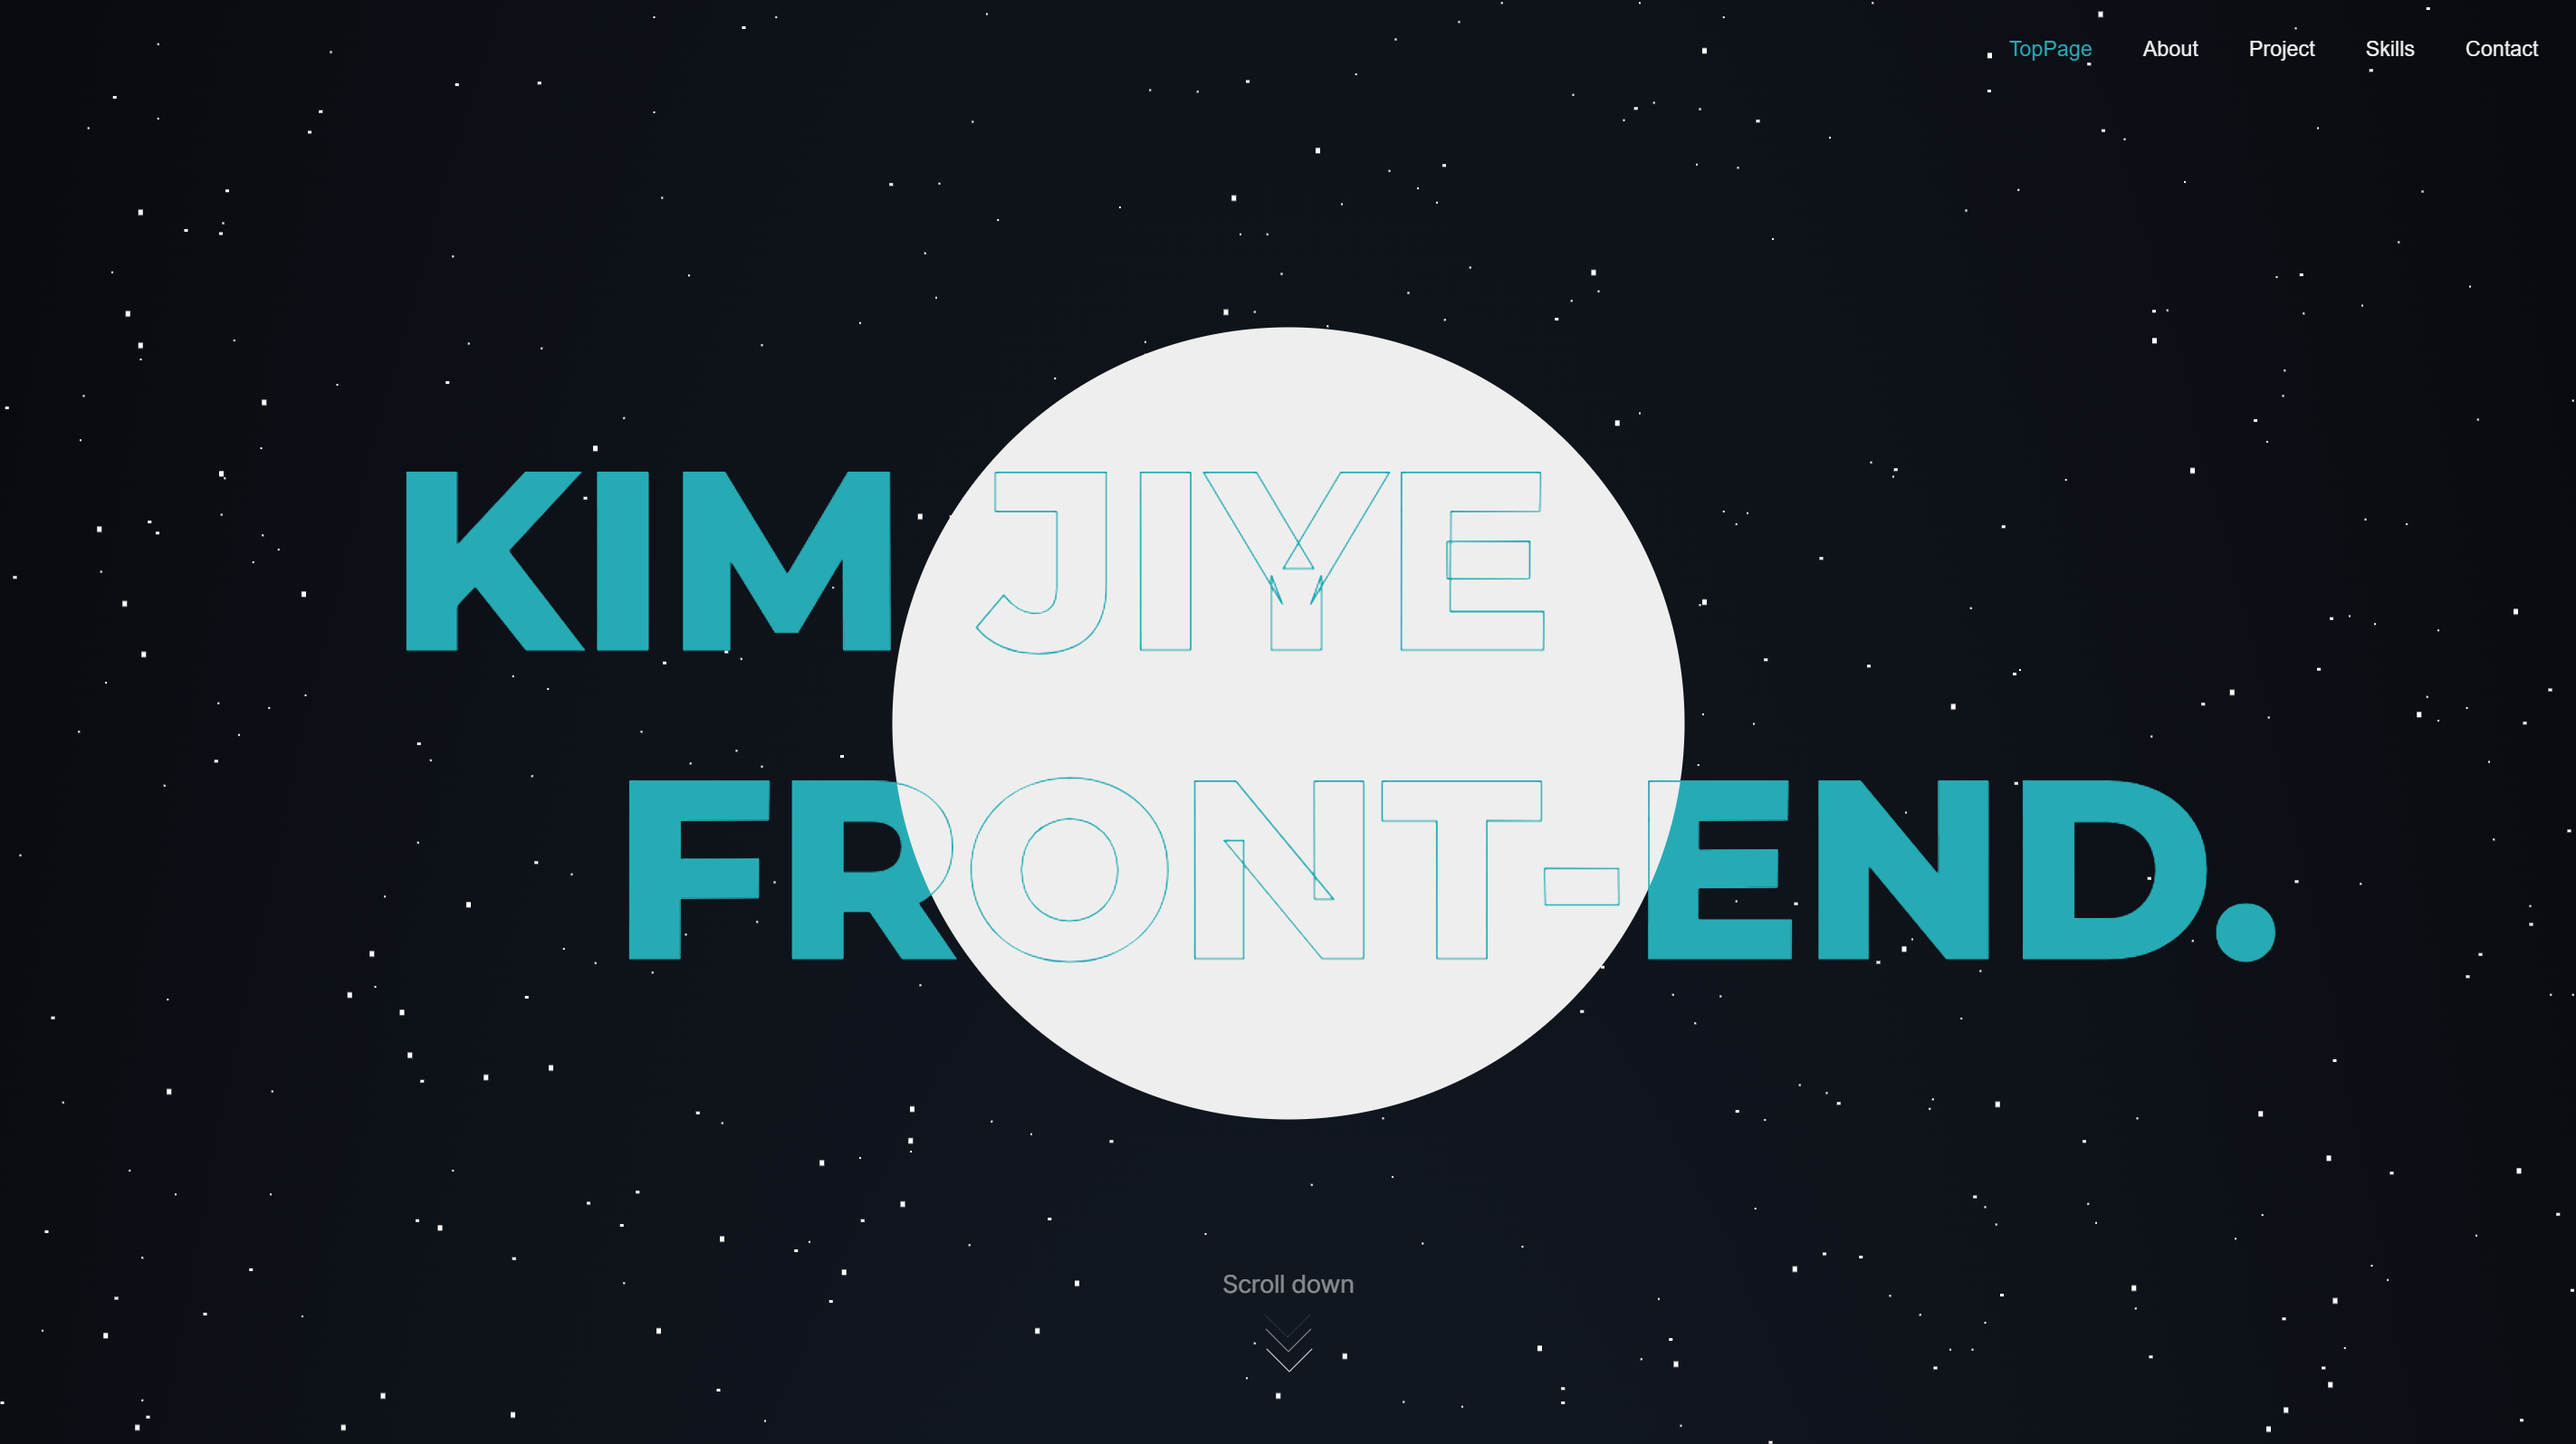
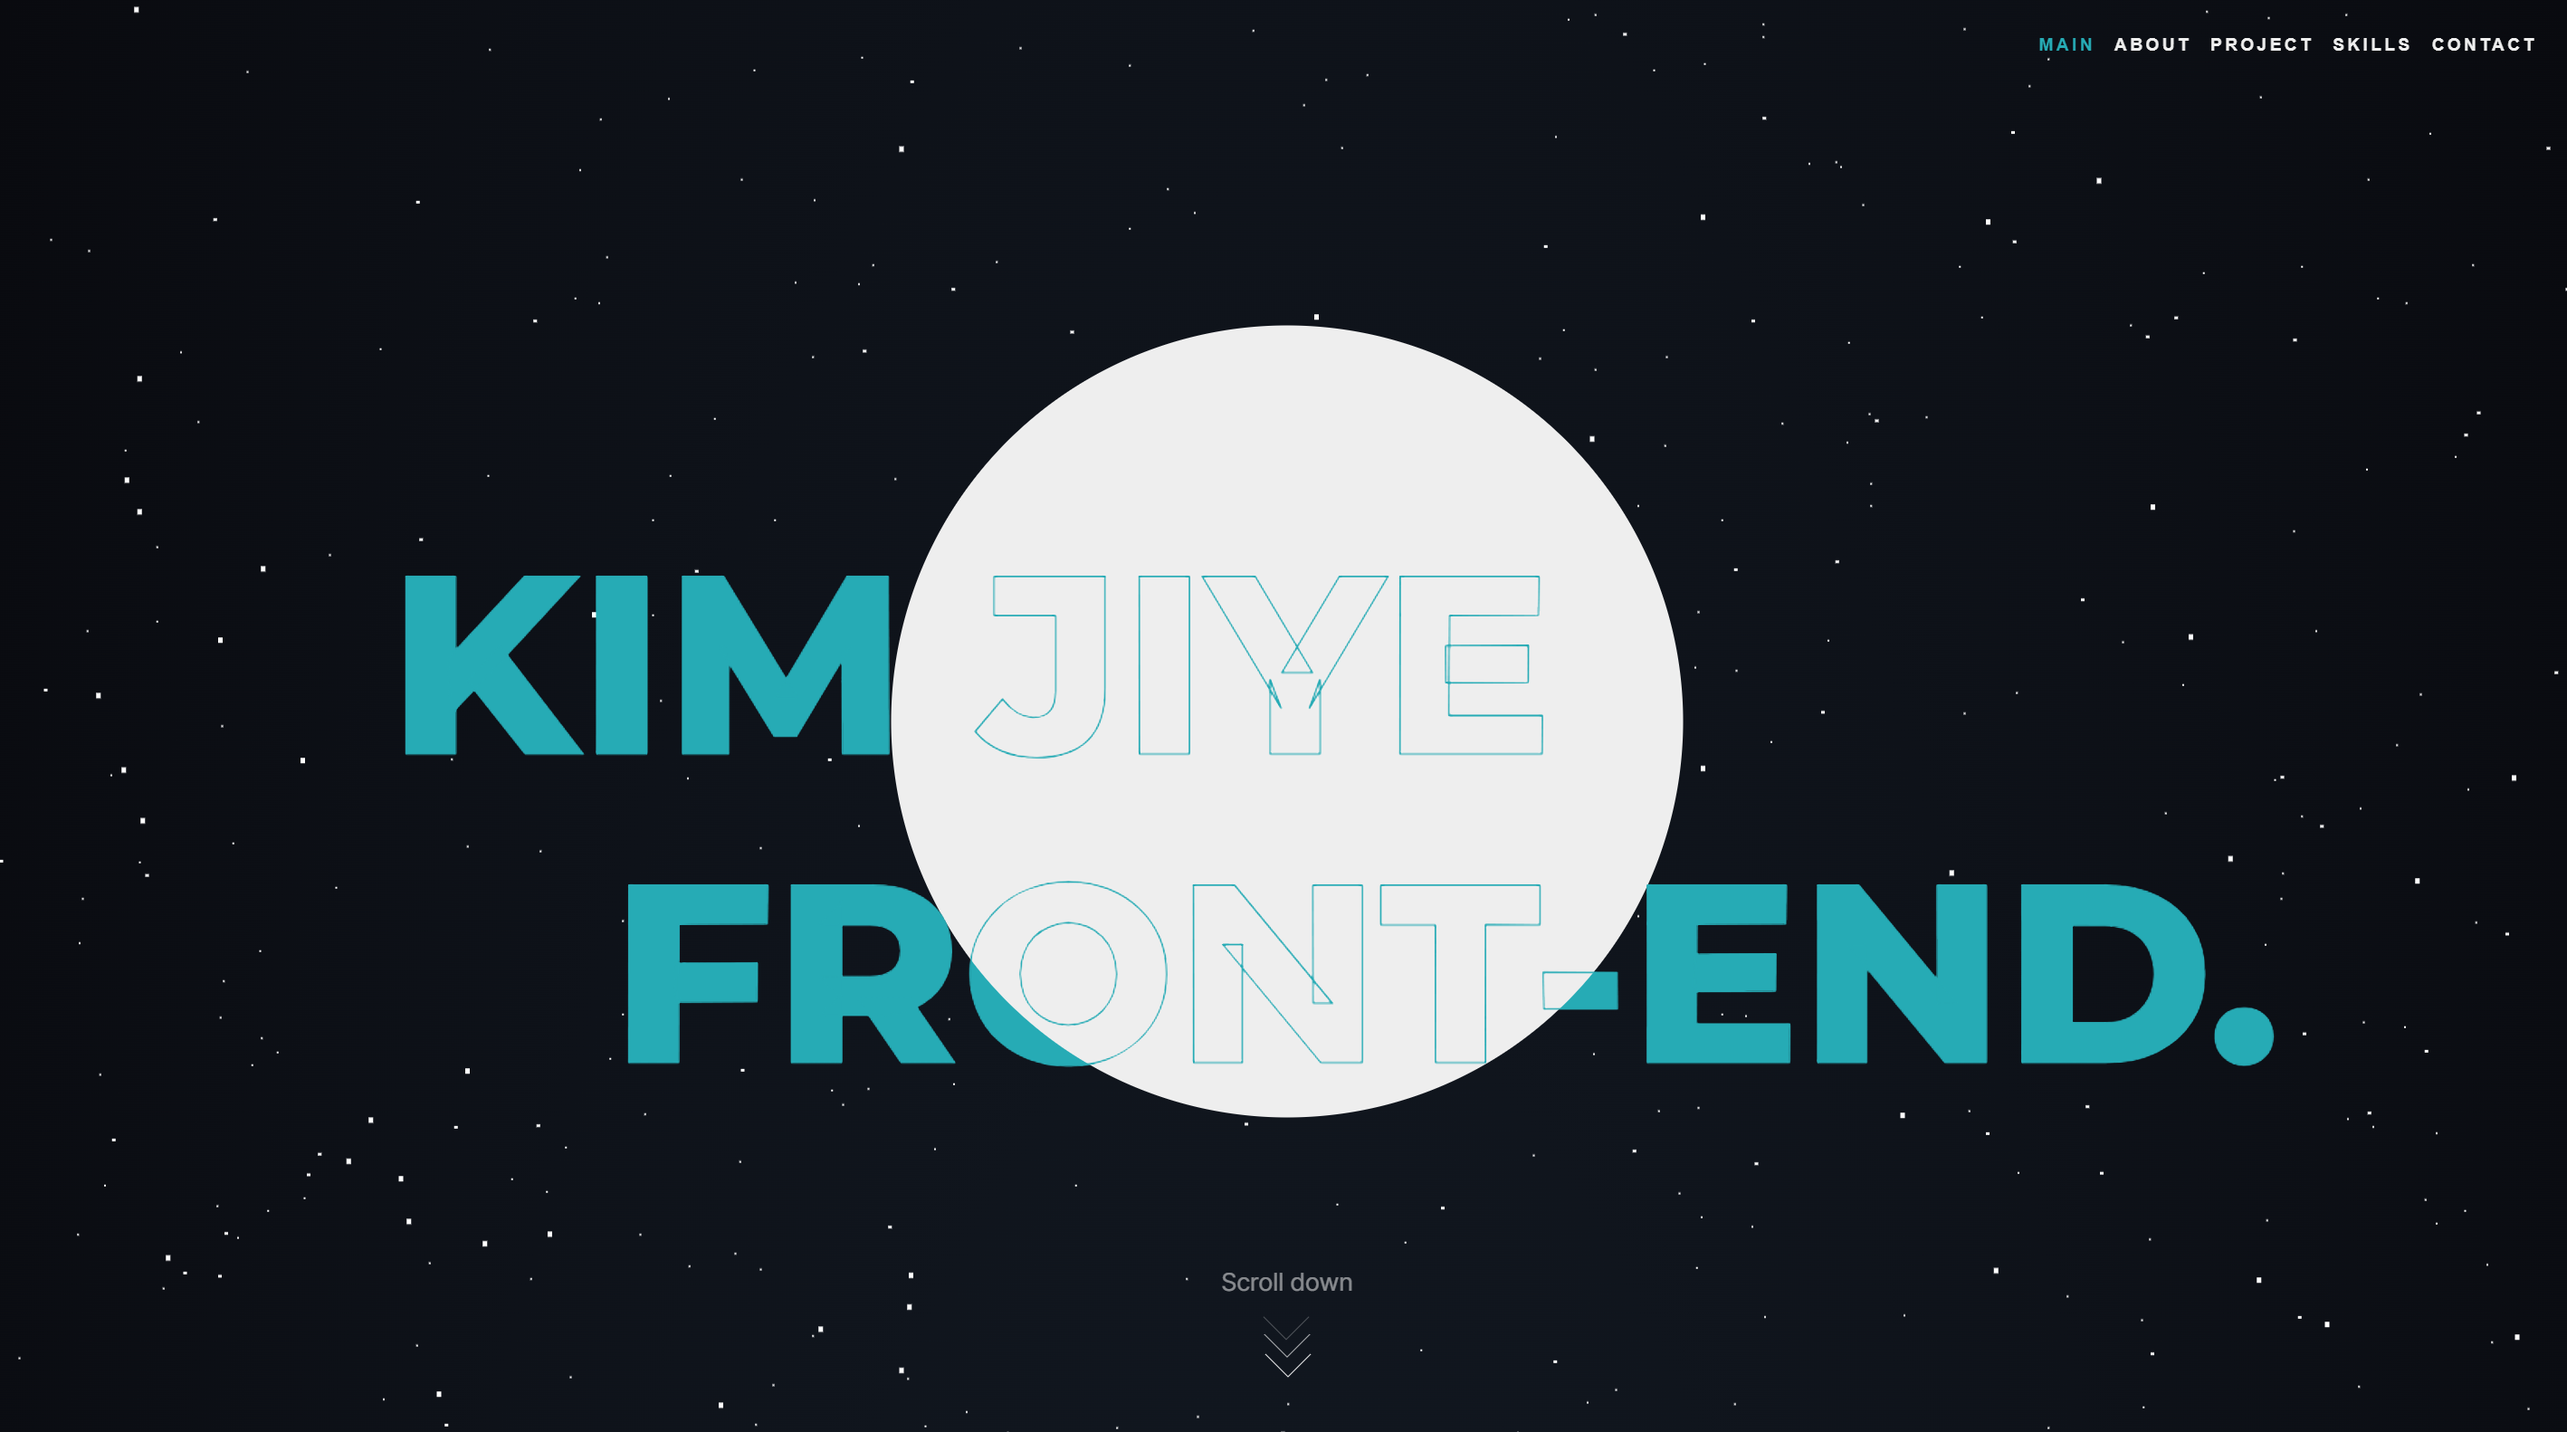
navbar animation 효과 및 수정

diff --git a/src/pages/home/home.styled.js b/src/pages/home/home.styled.js
@@ -2,8 +2,8 @@ import styled from '@emotion/styled';
 
 export const Navigator = styled.div`
   font-family: Pretendard JP;
-  position: sticky;
-  top: 0;
+  width: 98%;
+  position: fixed;
   display: flex;
   justify-content: flex-end;
   gap: 20;
@@ -13,10 +13,44 @@ export const Navigator = styled.div`
     display: none;
   }
 `;
+export const NaviCategory = styled.button`
+  position: relative; /* 부모 요소에 상대 위치 추가 */
+  border: none;
+  background-color: transparent;
+  cursor: pointer;
+  display: inline-block;
+  border-radius: 0;
+  color: #eeeeee;
+  font-weight: bold;
+  font-size: 0.678rem;
+  letter-spacing: 2px;
+  text-transform: uppercase;
+  text-decoration: none;
+  &:before,
+  &:after {
+    content: '';
+    display: block;
+    position: absolute;
+    height: 1px;
+    width: 0;
+    background-color: #eeeeee; /* 배경 색상 추가 */
+  }
 
-export const NaviCategory = styled('button')({
-  border: 'none',
-  backgroundColor: 'transparent',
-  color: '#eeeeee',
-  cursor: 'pointer',
-});
+  &:before {
+    transition: width 0.4s ease; /* 전환 효과 수정 */
+    left: 0;
+    right: 0;
+    bottom: 0px;
+  }
+
+  &:after {
+    right: 2.2%;
+    bottom: 15px;
+    transition: width 0.4s ease; /* 전환 효과 수정 */
+  }
+
+  &:hover:before,
+  &:hover:after {
+    width: 97.8%; /* :hover 상태에서의 너비 조정 */
+  }
+`;

diff --git a/src/pages/home/Home.jsx b/src/pages/home/Home.jsx
@@ -43,7 +43,7 @@ console.log(
 
 const Home = () => {
   const sectionsRefs = {
-    topPage: useRef(null),
+    Main: useRef(null),
     about: useRef(null),
     project: useRef(null),
     skills: useRef(null),
@@ -98,7 +98,7 @@ const Home = () => {
           </St.NaviCategory>
         ))}
       </St.Navigator>
-      <div ref={sectionsRefs.topPage}>
+      <div ref={sectionsRefs.Main}>
         <TopPage />
       </div>
       <div ref={sectionsRefs.about}>

diff --git a/src/pages/contact/contact.styled.js b/src/pages/contact/contact.styled.js
@@ -8,7 +8,7 @@ export const Container = styled('section')({
   flexDirection: 'column',
   justifyContent: 'center',
   alignItems: 'center',
-  height: '30vh',
+  height: '80vh',
   width: '100%',
   background: 'rgb(2, 7, 21)',
 });
